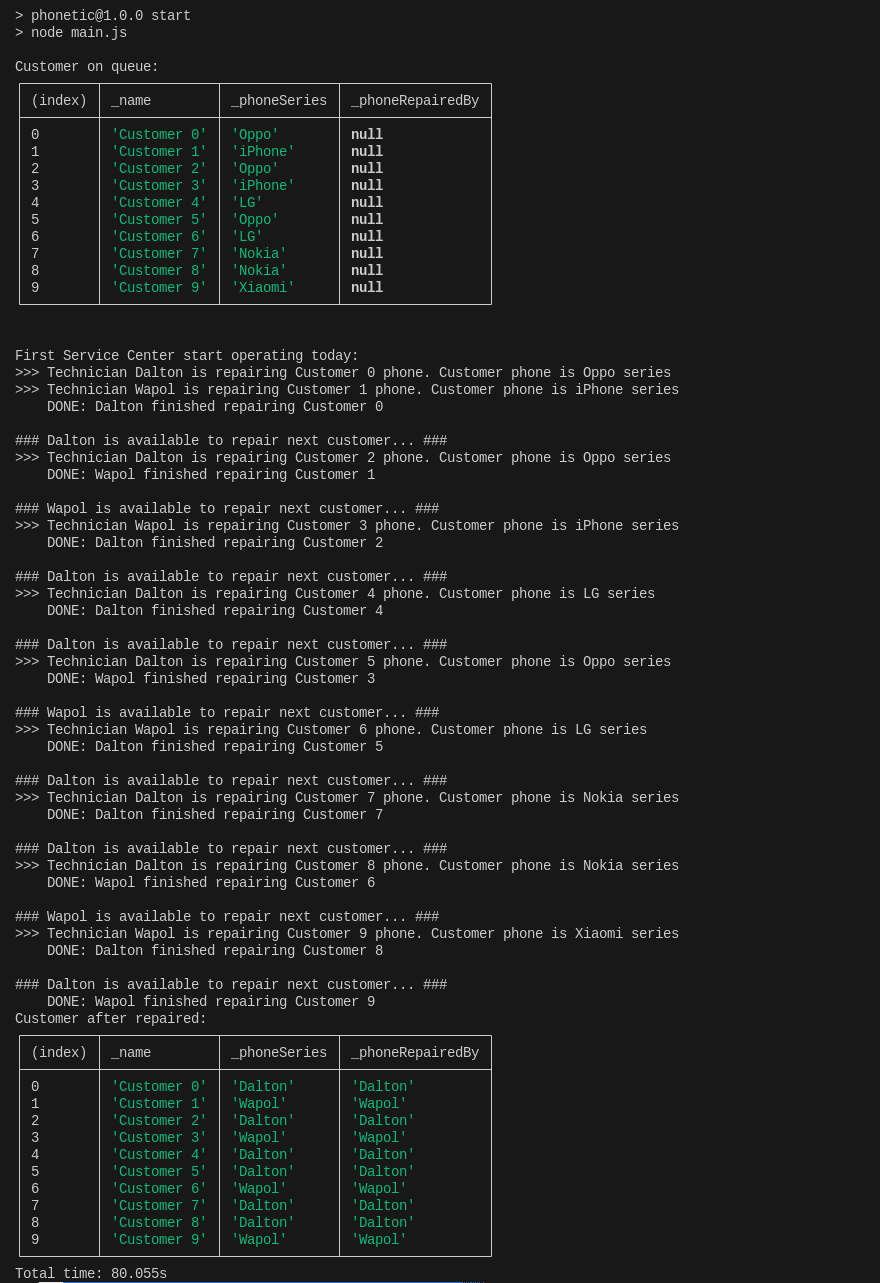
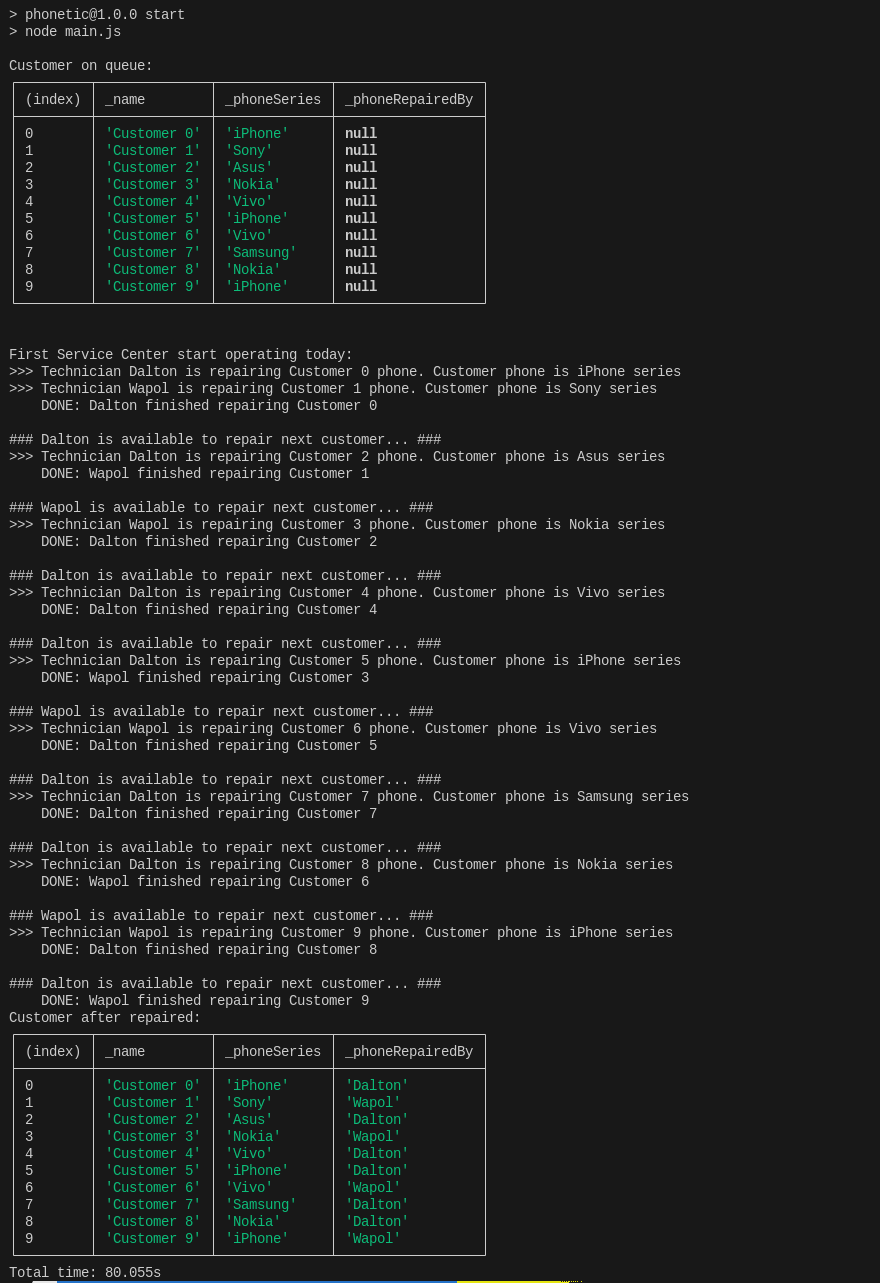
Update

Changed region(s): [[0.0, 0.0, 0.767, 1.0], [0.4909, 0.7171, 0.767, 0.7482]]

diff --git a/main.js b/main.js
@@ -41,7 +41,7 @@ class Technician {
             return new Promise((resolve) => {
                 this._isBusy = true;
                 let timeout = setTimeout(() => {
-                    customer.phoneSeries = this._name;
+                    customer.phoneRepairedBy = this._name;
                     this._isBusy = false;
                     clearTimeout(timeout);
                     resolve(customer);
@@ -98,8 +98,6 @@ class ServiceCenter {
                     return;
                 console.log(`>>> Technician ${technician.name} is repairing ${customer.name} phone. Customer phone is ${customer.phoneSeries} series`);
                 technician.repairing(customer).then((result) => {
-                    const index = this._customers.findIndex((c) => c.name === result.name);
-                    this._customers[index].phoneRepairedBy = technician.name;
                     console.log(`    DONE: ${technician.name} finished repairing ${customer.name}`);
                     if (customers.length <= 0 && this._technicians.every((t) => !t.busy)) {
                         this._finished(this._customers);

diff --git a/main.ts b/main.ts
@@ -43,7 +43,7 @@ class Technician {
     return new Promise<Customer>((resolve) => {
       this._isBusy = true;
       let timeout = setTimeout(() => {
-        customer.phoneSeries = this._name;
+        customer.phoneRepairedBy = this._name;
         this._isBusy = false;
         clearTimeout(timeout);
         resolve(customer);
@@ -121,9 +121,6 @@ class ServiceCenter {
       if (!customer) return;
       console.log(`>>> Technician ${technician.name} is repairing ${customer.name} phone. Customer phone is ${customer.phoneSeries} series`)
       technician.repairing(customer).then((result) => {
-        const index = this._customers.findIndex((c) => c.name === result.name);
-        this._customers[index].phoneRepairedBy = technician.name;
-
         console.log(`    DONE: ${technician.name} finished repairing ${customer.name}`);
         if (customers.length <= 0 && this._technicians.every((t) => !t.busy)) {
           this._finished(this._customers);
